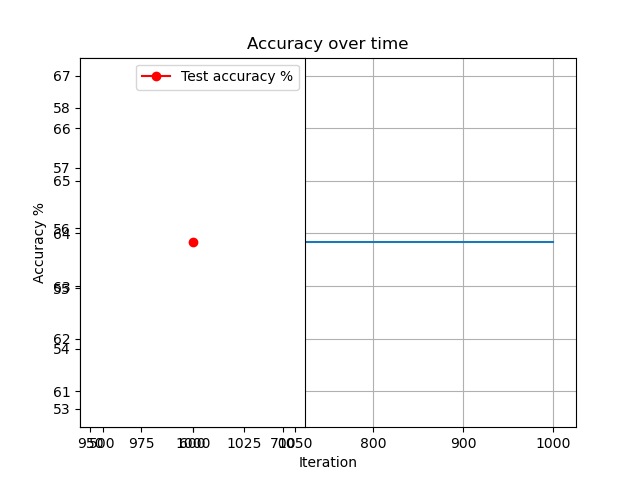
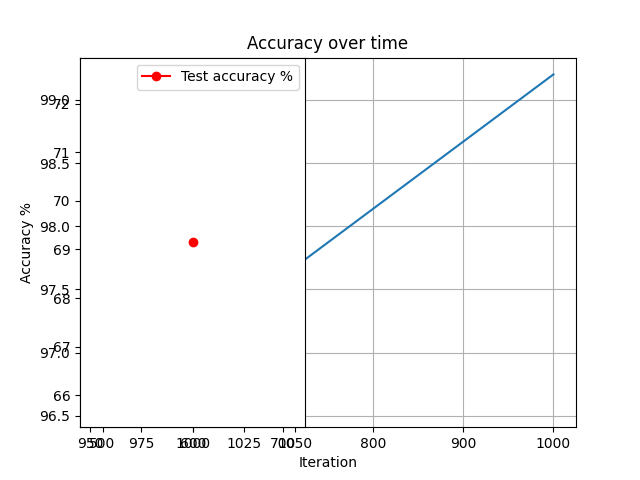
First Commit to Personal Branch

diff --git a/fnn.py b/fnn.py
@@ -4,222 +4,189 @@ import pandas as pd
 import numpy as np
 import matplotlib.pyplot as plt
 from torch.utils.data import Dataset
-from sklearn.metrics import confusion_matrix,classification_report
+from sklearn.metrics import confusion_matrix, classification_report
 import seaborn as sns
+from sklearn.preprocessing import StandardScaler
 
+# Define a feedforward neural network model
 class FeedforwardNeuralNetModel(nn.Module):
     def __init__(self, input_dim, hidden_dim, output_dim):
         super(FeedforwardNeuralNetModel, self).__init__()
-        self.fc1 = nn.Linear(input_dim, hidden_dim)
-        self.bn1 = nn.BatchNorm1d(hidden_dim)
-        self.fc2 = nn.Linear(hidden_dim, hidden_dim * 2)  
-        self.bn2 = nn.BatchNorm1d(hidden_dim * 2)
-        self.fc3 = nn.Linear(hidden_dim * 2, output_dim)  
-        self.sigmoid = nn.Sigmoid()
-        self.dropout = nn.Dropout(p=0.5)
+        # Define the network layers
+        self.fc1 = nn.Linear(input_dim, hidden_dim)  # First fully connected layer
+        self.fc2 = nn.Linear(hidden_dim, hidden_dim)  # Second fully connected layer
+        self.fc3 = nn.Linear(hidden_dim, output_dim)  # Output layer
+        self.relu1 = nn.ReLU()  # ReLU activation for the first hidden layer
+        self.relu2 = nn.ReLU()  # ReLU activation for the second hidden layer
+        self.sigmoid = nn.Sigmoid()  # Sigmoid activation for the output layer
+        self.dropout = nn.Dropout(p=0.5)  # Dropout layer to prevent overfitting
     
     def forward(self, x):
-
+        # Forward pass through the network
         out = self.fc1(x)
-        out = self.bn1(out)
-        out = self.sigmoid(out)
-        out = self.dropout(out)
-
+        out = self.relu1(out)
+        out = self.dropout(out)  # Apply dropout
         out = self.fc2(out)
-        out = self.bn2(out)
-        out = self.sigmoid(out)
-        out = self.dropout(out)
-
+        out = self.relu2(out)
+        out = self.dropout(out)  # Apply dropout
         out = self.fc3(out)
+        out = self.sigmoid(out)  # Apply sigmoid activation
         return out
 
-class RecurrentNeuralNetModel(nn.Module):
-    def __init__(self, input_dim, hidden_dim, layer_dim, output_dim):
-        super(RecurrentNeuralNetModel, self).__init__()
-        self.hidden_dim = hidden_dim
-        self.layer_dim = layer_dim
-        self.lstm = nn.LSTM(input_dim, hidden_dim, layer_dim, batch_first=True)
-        self.fc = nn.Linear(hidden_dim, output_dim)
-        self.sigmoid = nn.Sigmoid()
-        self.dropout = nn.Dropout(p=0.5)
-    
-    def forward(self, x):
-
-        #Init hidden state with 0s
-        h0 = torch.zeros(self.layer_dim, x.size(0), self.hidden_dim).to(device)
-
-        c0 = torch.zeros(self.layer_dim, x.size(0), self.hidden_dim).to(device)
-        #Detach hidden state to avoid exploding gradients
-        out, _ = self.lstm(x, (h0, c0))
-
-        #index hidden state of last time step
-        #out.size() => 100, 20, 10
-        # We just want last time step hidden states
-        out = self.fc(out[:, -1, :])
-        return out
-
+# Define a custom dataset class for loading data
 class CSVDataset(Dataset):
     def __init__(self, features, labels):
-        self.features = torch.tensor(features, dtype=torch.float32)
-        self.labels = torch.tensor(labels.values, dtype=torch.long)
+        self.features = torch.tensor(features, dtype=torch.float32)  # Convert features to tensor
+        self.labels = torch.tensor(labels.values, dtype=torch.float32).unsqueeze(1)  # Convert labels to tensor and add a dimension
+        
     def __len__(self):
-        return len(self.features)
+        return len(self.features)  # Return the number of samples
+        
     def __getitem__(self, index):
-        return self.features[index], self.labels[index]
+        return self.features[index], self.labels[index]  # Return a single sample and its label
 
+# Determine if a GPU is available and set the device, my personal machine always seems to use the CPU.
 device = torch.device('cuda' if torch.cuda.is_available() else 'cpu')
 
-# Create test and train datasets    
+# Load the dataset and preprocess it
 dataset = pd.read_csv('Dataset.csv', encoding="ISO-8859-1")
-dataset_labels = dataset.pop("Diagnosis")
-dataset.pop("DoctorInCharge")
+dataset_labels = dataset.pop("Diagnosis")  # Separate labels from features
+dataset.pop("DoctorInCharge")  # Remove unnecessary column
 
+# Split the dataset into training and testing portions
 test_portion_dataset = dataset[int((len(dataset) * (7/8))):]
 test_portion_dataset_labels = dataset_labels[int((len(dataset) * (7/8))):]
-actual = np.array(test_portion_dataset_labels)
 train_portion_dataset = dataset[:int((len(dataset) * (7/8)))]
 train_portion_dataset_labels = dataset_labels[:int((len(dataset) * (7/8)))]
 
-
-print(len(test_portion_dataset))
-print(len(test_portion_dataset_labels))
-print(len(train_portion_dataset))
-print(len(train_portion_dataset_labels))
-
+# Convert data to numpy arrays
 dataset_features = np.vstack(train_portion_dataset.values).astype(np.float32)
 test_dataset_features = np.vstack(test_portion_dataset.values).astype(np.float32)
 
+# Scale the features
+scaler = StandardScaler()
+train_portion_dataset = scaler.fit_transform(train_portion_dataset)  # Fit and transform training data
+test_portion_dataset = scaler.transform(test_portion_dataset)  # Transform test data
 
-mean = dataset_features.mean(axis=0)
-std = dataset_features.std(axis=0)
-dataset_features = (dataset_features - mean) / std
-test_dataset_features = (test_dataset_features - mean) / std
-
+# Define training parameters
 batch_size = 100
 n_iters = 1000
-num_epochs = n_iters / (len(dataset_features) / batch_size)
+num_epochs = n_iters / (len(dataset_features) / batch_size)  # Calculate number of epochs
 num_epochs = int(num_epochs)
 print(num_epochs)
-input_dim = 33
-output_dim = 2
-hidden_dim = 500
-layer_dim = 2
 
-train_dataset = CSVDataset(dataset_features, train_portion_dataset_labels)
-test_dataset = CSVDataset(test_dataset_features, test_portion_dataset_labels)
-dataset_loader = torch.utils.data.DataLoader(dataset=train_dataset,
-                                            batch_size = batch_size,)
+input_dim = dataset_features.shape[1]  # Number of input features
+output_dim = 1  # Number of output classes (binary classification)
+hidden_dim = 200  # Number of hidden units
 
-test_loader = torch.utils.data.DataLoader(dataset=test_dataset,
-                                            batch_size = batch_size)
+# Create dataset and dataloaders
+train_dataset = CSVDataset(train_portion_dataset, train_portion_dataset_labels)
+test_dataset = CSVDataset(test_portion_dataset, test_portion_dataset_labels)
+dataset_loader = torch.utils.data.DataLoader(dataset=train_dataset, batch_size=batch_size, shuffle=True)
+test_loader = torch.utils.data.DataLoader(dataset=test_dataset, batch_size=batch_size, shuffle=False)
 
+# Initialize the model, loss function, and optimizer
+model = FeedforwardNeuralNetModel(input_dim, hidden_dim, output_dim)
+model.to(device)  # Move model to GPU if available
+print(sum([x.reshape(-1).shape[0] for x in model.parameters()]))  # Print the number of parameters in the model
+criterion = nn.BCELoss()  # Binary Cross-Entropy loss for binary classification
 
-model = RecurrentNeuralNetModel(input_dim, hidden_dim, layer_dim, output_dim)
+learning_rate = 0.001
+optimizer = torch.optim.Adam(model.parameters(), lr=learning_rate)  # Adam optimizer
 
-criterion = nn.CrossEntropyLoss()
-
-learning_rate = 0.01
-optimizer = torch.optim.SGD(model.parameters(), lr=learning_rate) 
-
- 
+# Split the training data into training and validation sets
 val_split = 0.2
-val_size = int(len(train_portion_dataset) * val_split)
-train_size = len(train_portion_dataset) - val_size
+val_size = int(len(train_dataset) * val_split)
+train_size = len(train_dataset) - val_size
 print(val_size)
 print(train_size)
- 
-train_dataset, val_dataset = torch.utils.data.random_split(train_dataset,[train_size, val_size])
+
+train_dataset, val_dataset = torch.utils.data.random_split(train_dataset, [train_size, val_size])
 print("Length of train_dataset:" + str(len(train_dataset)))
 print("Length of val_dataset:" + str(len(val_dataset)))
 val_loader = torch.utils.data.DataLoader(dataset=val_dataset, batch_size=batch_size, shuffle=False)
 
+# Lists to store accuracy and iteration information
 accuracies = []
 iterations = []
 iter = 0
+
+# Training loop
 for epoch in range(num_epochs):
     for i, (fields, labels) in enumerate(dataset_loader):
-        if len(fields.shape) == 2:
-            fields = fields.unsqueeze(1)  # Add sequence dimension if missing
-        
-        optimizer.zero_grad()
-        outputs = model(fields)
-        loss = criterion(outputs, labels)
-        loss.backward()
-        optimizer.step()
+        model.train()  # Set model to training mode
+        fields, labels = fields.to(device), labels.to(device)  # Move data to GPU if available
+        optimizer.zero_grad()  # Zero the gradients
+        outputs = model(fields)  # Forward pass
+        loss = criterion(outputs, labels)  # Calculate loss
+        loss.backward()  # Backward pass
+        optimizer.step()  # Update weights
         iter += 1
         if iter % 500 == 0:
-            # Calculate Accuracy         
+            # Calculate accuracy on the validation set
             correct = 0
             total = 0
-            # Iterate through test dataset
-            model.eval()
+            model.eval()  # Set model to evaluation mode
             with torch.no_grad():
                 for fields, labels in val_loader:
-                    if len(fields.shape) == 2:
-                        fields = fields.unsqueeze(1)  # Add sequence dimension if missing
-        
-                    
-                    # Forward pass only to get logits/output
-                    outputs = model(fields)
-                    
-                    # Get predictions from the maximum value
-                    _, predicted = torch.max(outputs.data, 1)
-                    
-                    # Total number of labels
-                    total += labels.size(0)
-                    
-                    # Total correct predictions
-                    correct += (predicted == labels).sum().item()
+                    fields, labels = fields.to(device), labels.to(device)  # Move data to GPU if available
+                    testOutputs = model(fields).round()  # Get predictions and round to 0 or 1
+                    predicted = testOutputs.round()  # Round predictions
+                    total += labels.size(0)  # Update total number of samples
+                    correct += (predicted == labels).sum().item()  # Count correct predictions
             
-            accuracy = 100 * correct / total
-            accuracies.append(accuracy)
-            iterations.append(iter)
-            # Print Loss
+            accuracy = 100 * correct / total  # Calculate accuracy
+            accuracies.append(accuracy)  # Append accuracy to the list
+            iterations.append(iter)  # Append iteration to the list
+            # Print current iteration, loss, and accuracy
             print('Iteration: {}. Loss: {}. Accuracy: {}'.format(iter, loss.item(), accuracy))
 
+# Print the list of accuracies
 print(accuracies)
 fig, ax = plt.subplots()
 plt.figure(figsize=(12,6))
 
+# Plot accuracy over iterations
 ax.plot(iterations, accuracies, label="Validation set accuracy %")
 ax.set(xlabel="Iteration", ylabel="Accuracy %",
        title="Accuracy over time")
 ax.grid()
 plt.legend()
 
+# Evaluate the model on the test set
 model.eval()
 correct = 0
 total = 0
 predictedArray = []
-with torch.no_grad():  # Disable gradient calculation
+with torch.no_grad():
     for fields, labels in test_loader:
-        
-        if len(fields.shape) == 2:
-            fields = fields.unsqueeze(1)  # Add sequence dimension if missing
-        
-        outputs = model(fields)
-        _, predicted = torch.max(outputs.data, 1)
-        predictedArray.append(outputs)
-        total += labels.size(0)
-        correct += (predicted == labels).sum().item()
-#print(actual)
-#print(predictedArray)
+        fields, labels = fields.to(device), labels.to(device)  # Move data to GPU if available
+        outputs = model(fields)  # Forward pass
+        predicted = outputs.round()  # Round predictions
+        predictedArray.append(outputs)  # Collect outputs
+        total += labels.size(0)  # Update total number of samples
+        correct += (predicted == labels).sum().item()  # Count correct predictions
+
+# Calculate test accuracy
 test_accuracy = 100 * correct / total
 print(f'Test Accuracy: {test_accuracy}%')
 
+# Save test accuracy to a file
 with open('accuracies.txt', 'a') as accuraciesFile:
     accuraciesFile.write(str(test_accuracy) + '\n')
 
+# Read and print accuracy from the file
 with open('accuracies.txt', 'r') as accuraciesFile:
     accuraciesList = [float(line.strip()) for line in accuraciesFile]
     print(accuraciesList)
 
+# Plot test accuracy over time
 ax = fig.add_subplot(1,2,1)
-plt.plot(range(1,len(accuraciesList) + 1), accuraciesList, 'ro-', label="Test accuracy %")
+plt.plot(range(1, len(accuraciesList) + 1), accuraciesList, 'ro-', label="Test accuracy %")
 ax.plot(iterations[-1], test_accuracy, 'ro-', label="Test accuracy %")
 accuraciesList = []
 
 ax.legend()
 plt.tight_layout()
-fig.savefig("test.png")
-plt.show()
+fig.savefig("test.png")  # Save the plot
+plt.show()  # Display the plot
